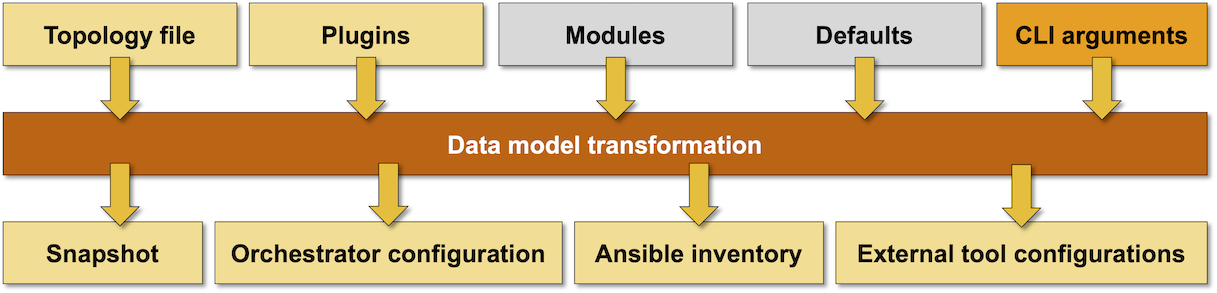
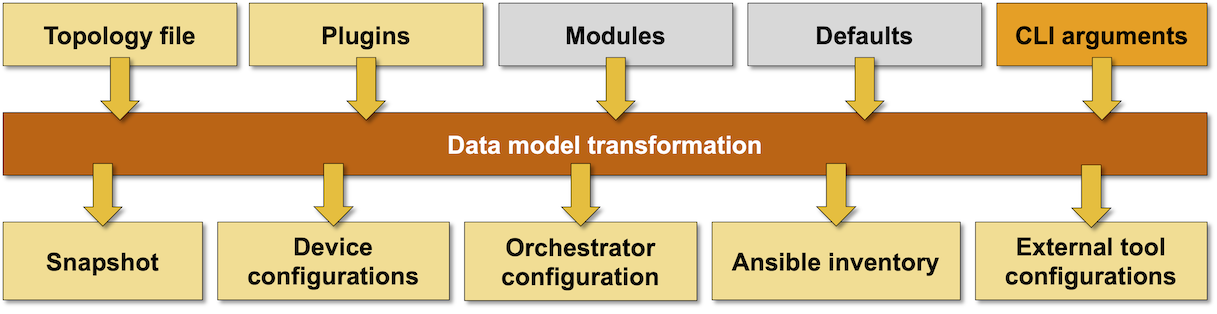
Doc: Update the architecture diagrams for netlab commands
Resolves #3015

diff --git a/docs/netlab/initial.md b/docs/netlab/initial.md
@@ -12,16 +12,16 @@ After successful completion of the Ansible playbook, **netlab initial** displays
 The Ansible playbook invoked by the **netlab initial** command deploys device configurations in four steps:
 
 * Wait for devices to become ready[^rtag]
-* Initial device configurations[^itag]
-* Module-specific device configurations[^mtag]
-* Custom configuration templates[^ctag]
+* Deploy initial device configurations[^itag]
+* Deploy module-specific device configurations[^mtag]
+* Deploy configurations generated by the custom configuration templates[^ctag]
 
 [^rtag]: Use the `--ready` flag to execute just this step
 [^itag]: Controlled by `-i` flag or **initial** Ansible tag
 [^mtag]: Controlled by `-m` flag or **module** Ansible tag
 [^ctag]: Controlled by `-c` flag or **custom** Ansible tag
 
-Jinja2 templates are used together with **_device_\_config** Ansible modules to configure most devices. Sometimes, the configuration task list includes additional tasks[^init]. Some Linux-based containers are configured with shell scripts that run before **netlab initial** starts the Ansible playbook.
+Device configurations prepared by the **netlab create**/**netlab up** commands, or created as the first step of the **netlab initial** process, are used with the **_device_\_config** Ansible modules to configure most devices. Sometimes, the configuration task list includes additional tasks[^init]. Some Linux-based containers are configured with shell scripts that run before **netlab initial** starts the Ansible playbook.
 
 [^init]: For example, Juniper vMX requires an evaluation license to be applied after the device boots.
 
